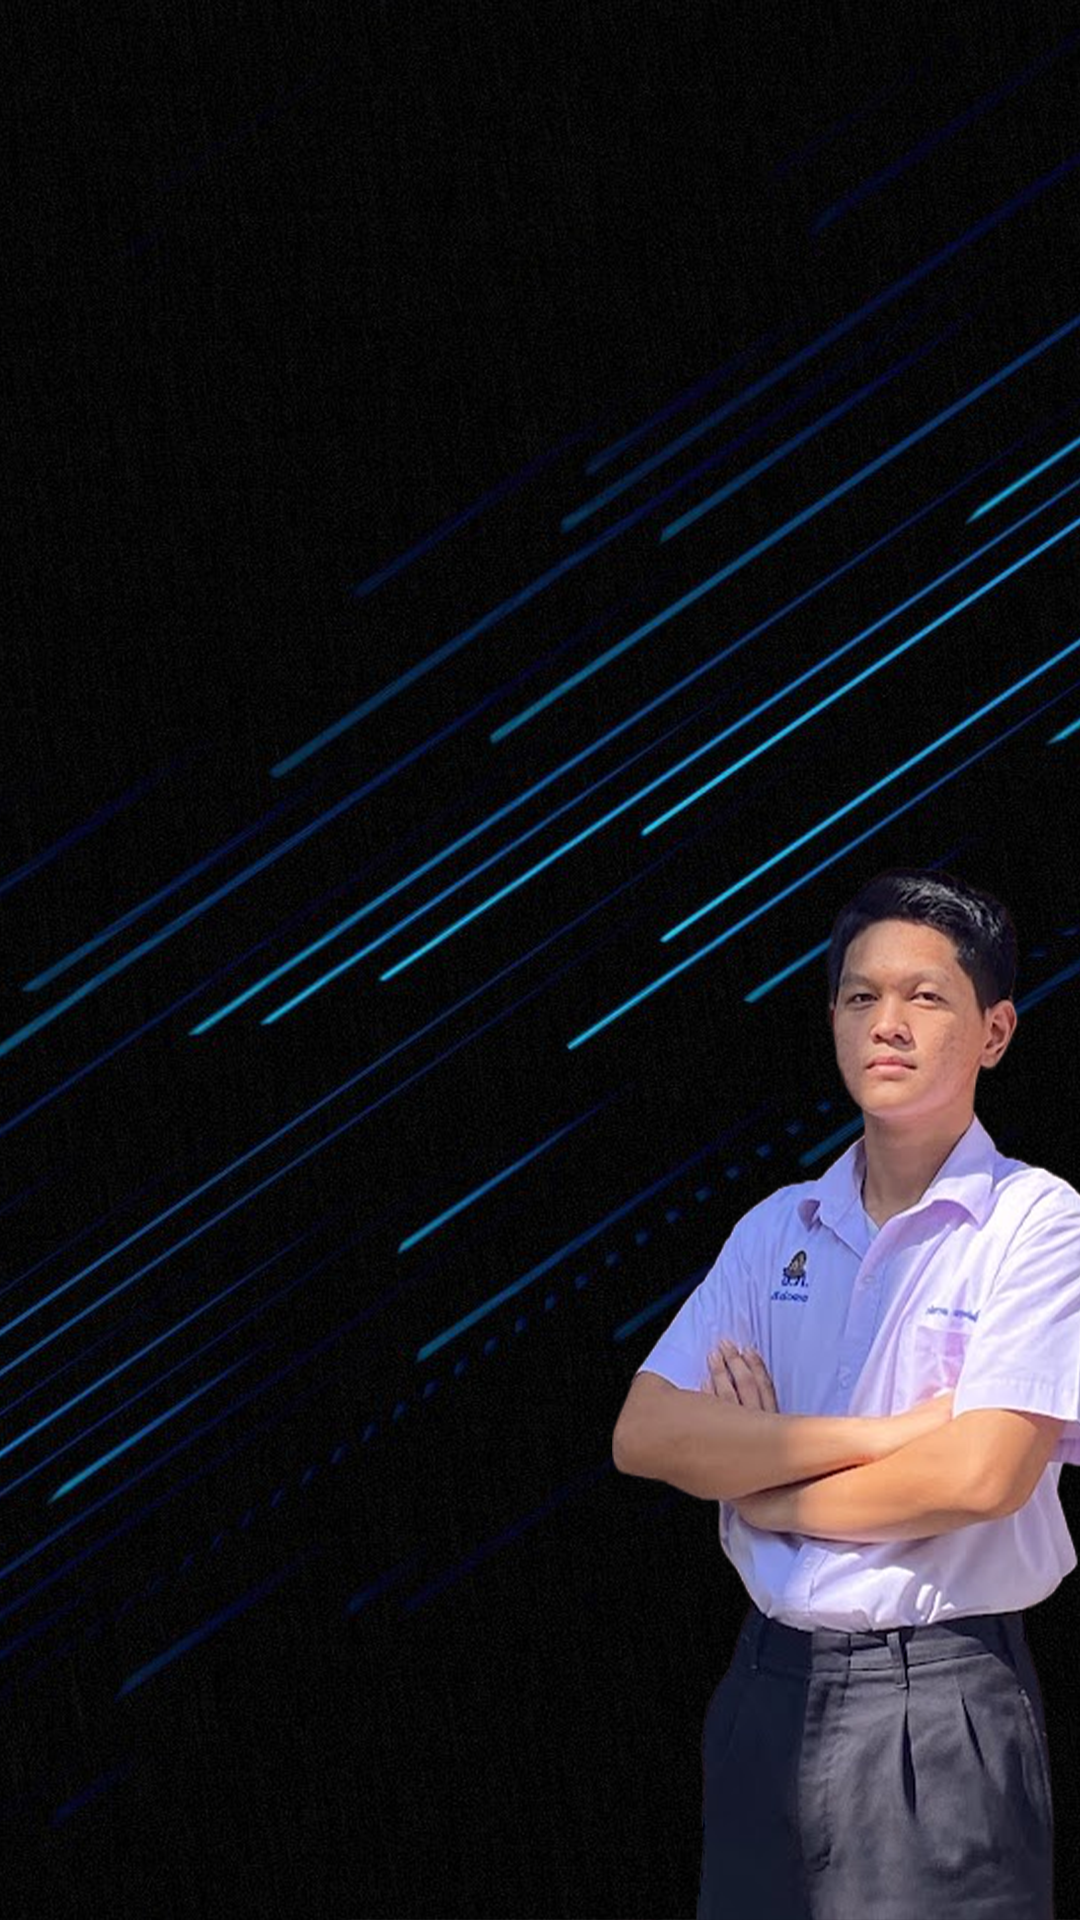
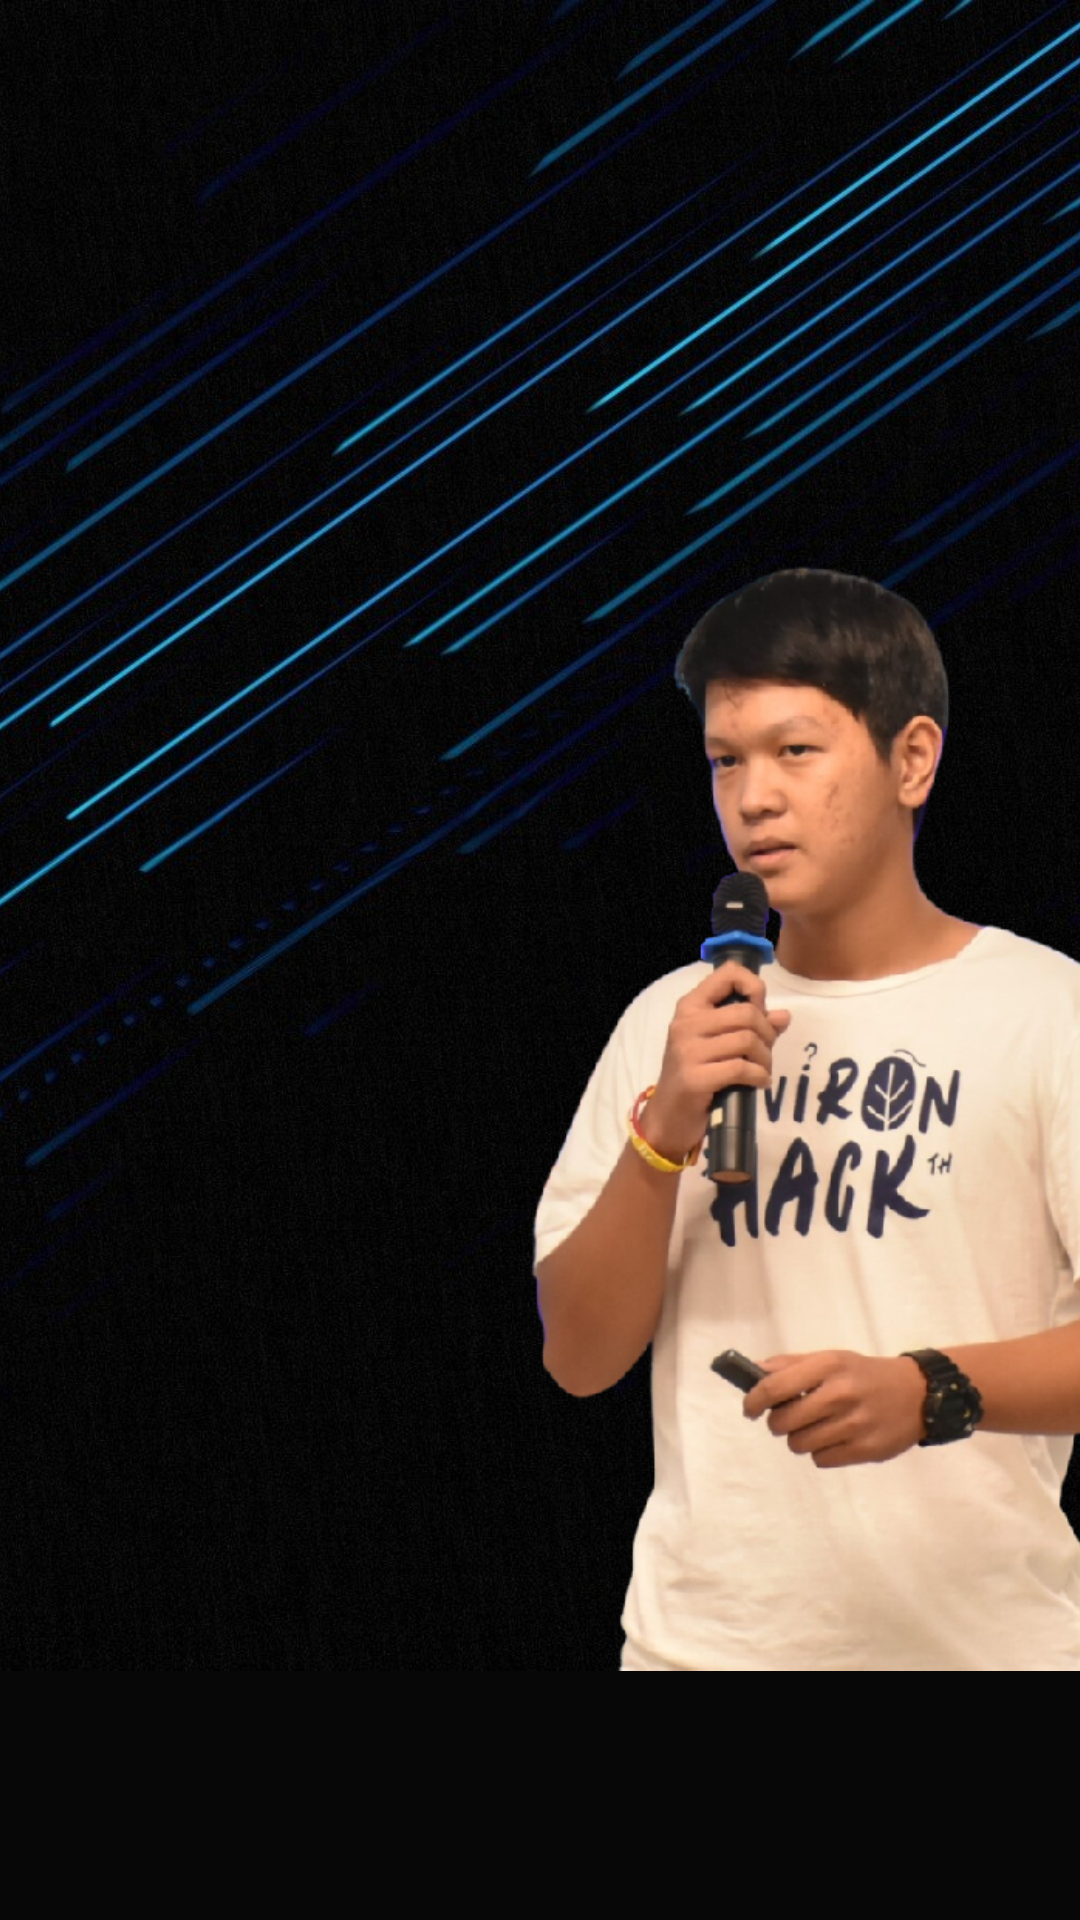
8/13/2023

diff --git a/index.html b/index.html
@@ -48,7 +48,7 @@
                 </p>
                 <div class="tab-tittles">
                     <p class="tablinks activelink" onclick="opentab('skills')">Skills</p>  
-                    <p class="tablinks" onclick="opentab('activities')">Activities</p>
+                    <p class="tablinks" onclick="opentab('activities')">Experiences</p>
                     <p class="tablinks" onclick="opentab('education')">Education</p>
                 </div>
                 <div class="tabcontents activetab" id="skills">
@@ -62,11 +62,13 @@
                 <div class="tabcontents" id="activities">
                     <ul>
                         <li><span>YTP 2023 by WEDO</span>
-                            <br>Basecamp, Hell Day and 3rd place in hackathon </li>
+                            <br>Hell Day and 3rd place in hackathon </li>
                         <li><span>Riverhack by Hackathon Thailand</span>
                             <br>2nd place award </li>
                         <li><span>RHB Get your hack on ASEAN EDITION 2023</span>
-                            <br>Participate </li>
+                            <br>TOP 15 teams </li>
+                        <li><span>Startup Thailand League 2023</span>
+                            <br>Regional round </li>
                     </ul>
                 </div>
                 <div class="tabcontents" id="education">

diff --git a/style.css b/style.css
@@ -444,7 +444,7 @@ nav .fa-solid{
 }
 @media only screen and (max-width:600px){
     #header{
-        background-image: url(images/phonebackground1.png);
+        background-image: url(images/phone2.png);
     }
     .headertext{
         margin-top: 30%;
